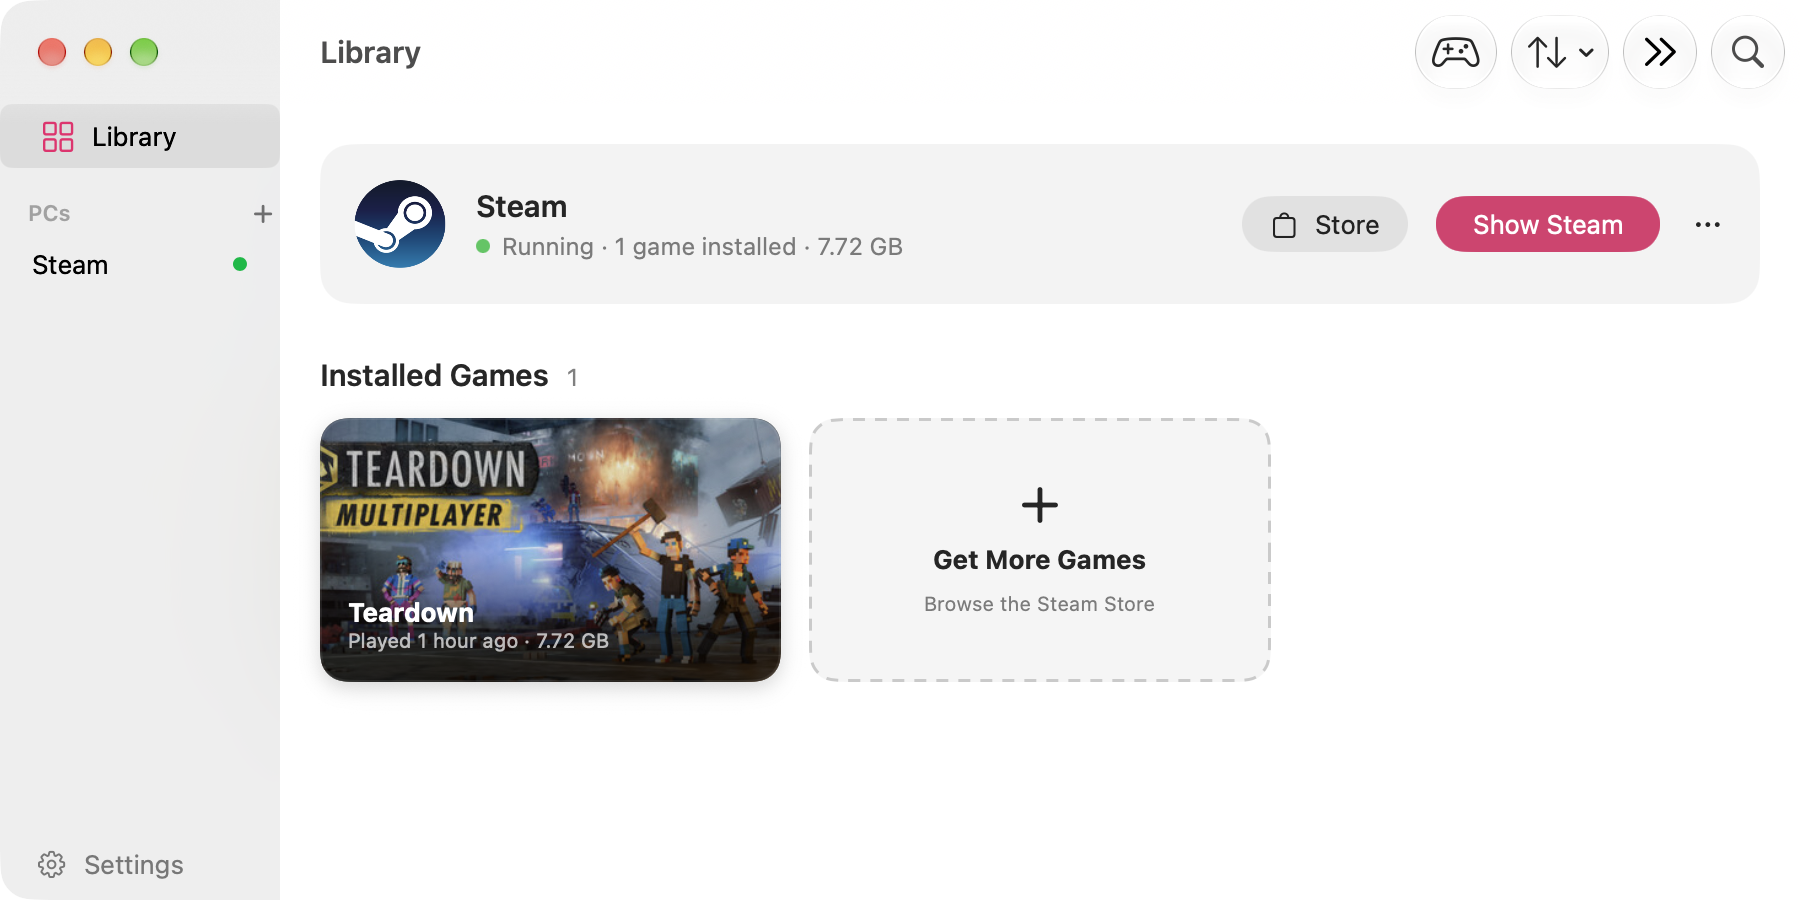
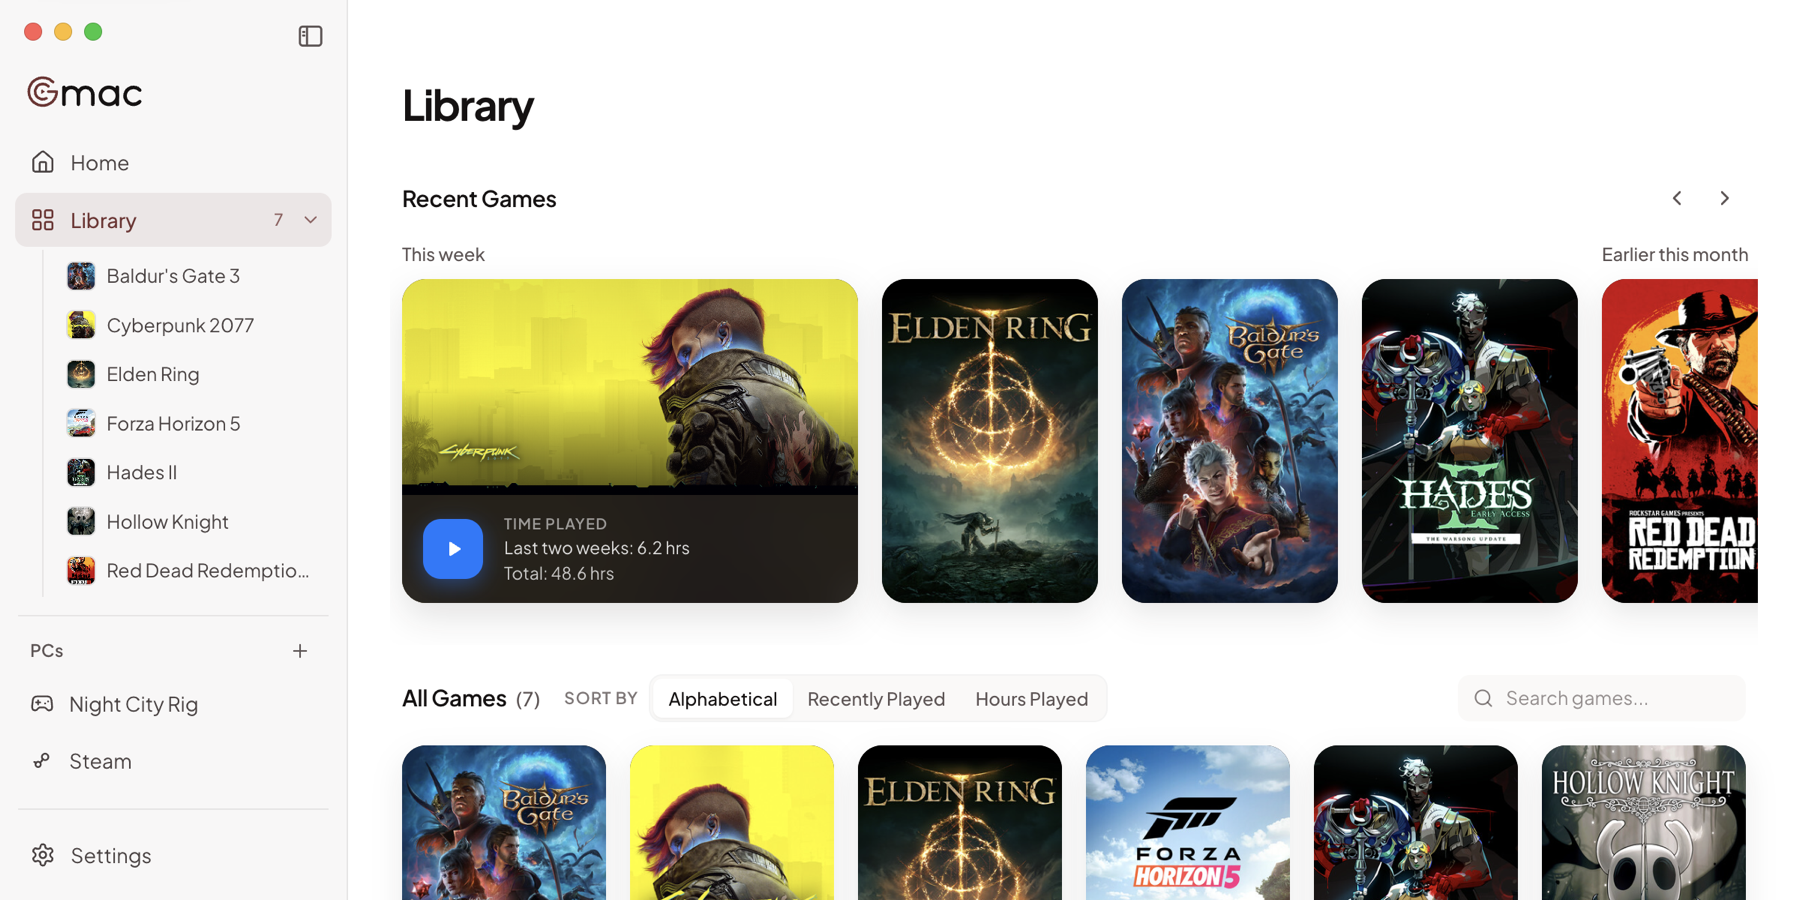
docs: update README and website screenshots to Electron UI

diff --git a/dist/pages/docs/readme.html b/dist/pages/docs/readme.html
@@ -113,7 +113,7 @@
 <li><strong>Simple reset.</strong> Deleting a PC stops any processes running inside it and moves the PC directory to the Trash.</li>
 </ul>
 <p align="center">
-  <img src="https://raw.githubusercontent.com/rolling7ho/gmac/main/images/statistics.png" width="560" alt="Statistics in Gmac settings">
+  <img src="https://raw.githubusercontent.com/rolling7ho/gmac/main/images/statistics.png" width="560" alt="Gmac home dashboard showing playtime statistics and recently played games">
 </p><h2 id="requirements">Requirements</h2>
 <ul>
 <li>Apple Silicon Mac (M1 or later)</li>
@@ -288,7 +288,7 @@ Gmac is a fork of [Whisky](https://github.com/whisky-app/whisky), via [frankea's
 - **Simple reset.** Deleting a PC stops any processes running inside it and moves the PC directory to the Trash.
 
 <p align="center">
-  <img src="./images/statistics.png" width="560" alt="Statistics in Gmac settings">
+  <img src="./images/statistics.png" width="560" alt="Gmac home dashboard showing playtime statistics and recently played games">
 </p>
 
 ## Requirements

diff --git a/dist/pages/index.html b/dist/pages/index.html
@@ -91,7 +91,10 @@
         <div class="hero-slot" aria-hidden="true"></div>
         <div class="hero-media">
           <div class="hero-frame">
-            <img src="library.png" width="1800" height="900" alt="Gmac library window displaying installed Windows games">
+            <picture>
+              <source media="(prefers-color-scheme: dark)" srcset="library-dark.png">
+              <img src="library.png" width="1800" height="900" alt="Gmac library window displaying installed Windows games">
+            </picture>
           </div>
         </div>
       </div>

diff --git a/README.md b/README.md
@@ -44,7 +44,7 @@ Gmac is a fork of [Whisky](https://github.com/whisky-app/whisky), via [frankea's
 - **Simple reset.** Deleting a PC stops any processes running inside it and moves the PC directory to the Trash.
 
 <p align="center">
-  <img src="./images/statistics.png" width="560" alt="Statistics in Gmac settings">
+  <img src="./images/statistics.png" width="560" alt="Gmac home dashboard showing playtime statistics and recently played games">
 </p>
 
 ## Requirements
